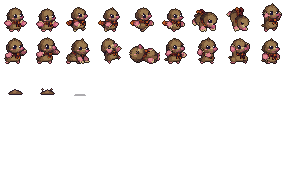
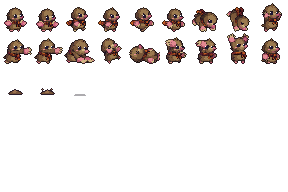
Naïl 치기 여섯 칸을 영상에서(nail_v5_attack.png)
- 1타·2타: 발을 머리 뒤로 당김 → 주둥이 앞까지 뻗음(발톱이 보인다), 3타·강타: 두 발을 머리 위로 → 낮게 내려찍음
- 작게 온 영상(키 약 120px)은 눈 반짝을 못 찾아 눈 덩어리의 가운데를 잰다(eye_dark·stamp_eye, 못 찾는 두 칸은 EYES)
- 거두기는 시트 B 그대로

Changed region(s): [[0.0, 0.1875, 0.3438, 0.3438], [0.5625, 0.1875, 0.75, 0.3438], [0.7812, 0.1562, 0.875, 0.3438]]

diff --git a/tools/art/nail_ai.py b/tools/art/nail_ai.py
@@ -360,6 +360,13 @@ _V5_D = {"dive_ref": (120, 21, 440, 360), "dive_a": (801, 51, 1144, 360), "dive_
 # 영상이 그려 넣은 흰 충격 효과가 있는 칸(5~7)은 피했다.
 SHEET_V5_FALL = SPRITES / "nail_v5_fall.png"
 _V5_F = {"fall_ref": (186, 73, 378, 313), "hurtg": (793, 68, 1013, 315), "deadg": (1391, 168, 1666, 334)}
+# 치기 영상(GIF 30칸, 16:9 첫 칸 — 그림이 작게 와 키 약 120px): 0(서기 — 배율 기준), 1타 4(오른발을 머리 뒤로)·6(주둥이 앞까지 뻗음),
+# 2타 12·14, 3타·강타 21(두 발을 머리 위로)·27(앞으로 낮게 내려찍음). 흐려진 칸(3·11·25)은 피했다. 거두기는 시트 B 그대로.
+SHEET_V5_ATTACK = SPRITES / "nail_v5_attack.png"
+_V5_K = {
+    "atk_ref": (267, 174, 372, 304), "windup0g": (897, 171, 1015, 304), "attack0g": (1556, 176, 1710, 304), "windup1g": (2182, 172, 2297, 304),
+    "attack1g": (2836, 176, 2990, 304), "windup2g": (3454, 147, 3568, 304), "attack2g": (4116, 191, 4258, 310),
+}
 # 머리가 위에 있지 않은 칸은 `shrink_head`가 머리 띠를 못 찾는다. 파고들기는 기준 칸(dive_ref)도 줄이지 않는다 — 줄이면 배율이
 # 커져 줄지 않은 머리가 더 커진다(머리 +18%). 그대로 두면 온몸 크기가 맞고 머리 +7%·몸 −9%쯤(0.1초 스치는 칸이라 받아들인다).
 NO_SHRINK = {"dead", "deadg", "dive_ref", "dive_a", "dive_b"}
@@ -375,6 +382,7 @@ SPEC_V5 = Spec(
         Source(SHEET_V5_WALK, _V5_W, groups=dict.fromkeys(_V5_W, "walkg_1"), tidy=0.15, strip=4),
         Source(SHEET_V5_DIVE, _V5_D, groups=dict.fromkeys(_V5_D, "dive_ref"), tidy=0.15, strip=3),
         Source(SHEET_V5_FALL, _V5_F, groups=dict.fromkeys(_V5_F, "fall_ref"), tidy=0.15, strip=3),
+        Source(SHEET_V5_ATTACK, _V5_K, groups=dict.fromkeys(_V5_K, "atk_ref"), tidy=0.15, strip=2),
     ],
     palette_ref=(0, "idle_a"),
     body_h=BODY_H_V5,
@@ -422,6 +430,36 @@ def eye_shines(img, box):
             py, px = np.mean([q[0] for q in pts]), np.mean([q[1] for q in pts])
             out.append(((px - fx0) / (fx1 - fx0), (py - fy0) / (fy1 - fy0)))
     return out
+
+
+def eye_dark(img, box):
+    """작게 온 영상 칸(키 약 120px)은 눈의 흰 반짝이 한두 점이라 `eye_shines`가 못 찾는다 → 눈 자체(짙고 둥근 덩어리)의 가운데를 잰다.
+    → (x, y) 그림 둘레 상자 기준 0..1, 못 찾으면 None(든 발이 눈 곁에 붙어 덩어리가 외곽선과 이어진 칸 — `EYES`에 적는다)."""
+    x0, y0, x1, y1 = box
+    a = img[y0:y1, x0:x1]
+    r, g, b = a[..., 0], a[..., 1], a[..., 2]
+    fg = ~((r > 170) & (g < 110) & (b > 170))
+    ys, xs = np.nonzero(fg)
+    fx0, fx1, fy0, fy1 = xs.min(), xs.max() + 1, ys.min(), ys.max() + 1
+    for pts in _blobs((r + g + b < 210) & fg)[:8]:
+        p = np.array(pts)
+        h, w = p[:, 0].max() - p[:, 0].min() + 1, p[:, 1].max() - p[:, 1].min() + 1
+        if len(p) >= 80 and len(p) / (w * h) > 0.55 and 0.6 < w / h < 1.6:
+            return (p[:, 1].mean() - fx0) / (fx1 - fx0), (p[:, 0].mean() - fy0) / (fy1 - fy0)
+    return None
+
+
+# `eye_dark`가 못 찾는 칸의 눈 가운데(원본을 보고 적은 값, 그림 둘레 상자 기준 0..1).
+EYES = {"windup0g": (0.55, 0.36), "windup1g": (0.54, 0.36)}
+
+
+def stamp_eye(spr, at):
+    """눈 가운데 `at`에 `stamp_face`와 같은 얼굴을 찍는다(가까운 눈 3×3 + 반짝, 먼 눈은 6px 오른쪽, 홍조)."""
+    ys, xs = np.nonzero(spr[..., 3] > 0)
+    x0, x1, y0, y1 = xs.min(), xs.max() + 1, ys.min(), ys.max() + 1
+    w, h = x1 - x0, y1 - y0
+    ex, ey = x0 + at[0] * w - 1, y0 + at[1] * h - 1
+    return stamp_face(spr, [((ex - x0) / w, (ey - y0) / h), ((ex + 6 - x0) / w, (ey - y0) / h)])
 
 
 def stamp_face(spr, shines):
@@ -614,14 +652,18 @@ def build_v5(walk="gif", lines=True, head=HEAD_V5):
     spr = convert(spec_v5(head))
     idle_img = None
     for sheet, frames in ((SHEET_V5_A, _V5_A), (SHEET_V5_B, _V5_B), (SHEET_V5_WALK, _V5_W), (SHEET_V5_DIVE, _V5_D),
-                          (SHEET_V5_FALL, _V5_F)):
+                          (SHEET_V5_FALL, _V5_F), (SHEET_V5_ATTACK, _V5_K)):
         img, _ = prep_v5(head)(np.asarray(Image.open(sheet).convert("RGB")).astype(int), frames)
         if sheet == SHEET_V5_A:
             idle_img = img
         for name, box in frames.items():
             if lines:
                 spr[name] = ink_lines(spr[name], img, box)
-            spr[name] = stamp_face(spr[name], eye_shines(img, box))
+            if sheet == SHEET_V5_ATTACK:
+                at = EYES.get(name) or eye_dark(img, box)
+                spr[name] = stamp_eye(spr[name], at) if at else spr[name]
+            else:
+                spr[name] = stamp_face(spr[name], eye_shines(img, box))
             if name in CLOSED_EYES:
                 spr[name] = stamp_shut(spr[name], *CLOSED_EYES[name])
     if lines:
@@ -636,7 +678,7 @@ def build_v5(walk="gif", lines=True, head=HEAD_V5):
     rows = [
         [edge(fill_holes(seat(spr["idle_a"], CELL, FOOT))), edge(fill_holes(seat(spr["idle_b"], CELL, FOOT)))] + walk4
         + [sat("dive_a"), sat("dive_b"), sat("burst")],
-        [sat(k) for k in ("attack0", "attack1", "attack2", "hurtg", "deadg", "windup0", "windup1", "windup2", "settle")],
+        [sat(k) for k in ("attack0g", "attack1g", "attack2g", "hurtg", "deadg", "windup0g", "windup1g", "windup2g", "settle")],
         [small(legacy.MOUND_A), small(legacy.MOUND_B), small(legacy.SHADOW)],
     ]
     return rows

diff --git a/docs/phase-1-combat-prototype.md b/docs/phase-1-combat-prototype.md
@@ -172,7 +172,7 @@
 - [ ] 사람: 개발판에서 텃밭 결(값·자라는 속도·칸 자리·화단 꽃·바탕 들꽃 그림 결) 확인 → v1.1 닫기·배포 시점
 - [x] 리팩터링 0307 1단계: R41(마을 상태 = `village::State::of`, 재주를 깨우거나 발자국 반딧불을 받은 뒤 우물 반딧불이 바로 따라옴)·R43(저장은 `App::write_profile` 한 곳 — 꾸미기·큰 나무·발자국 보상에서도 그 자리에서 업적)
 - [x] 리팩터링 0307 2단계: 화면 기준선이 같은 그림을 내게(가짜 시계 `pauseAt`·확인용 줄 난수 고정), R45(`draw_sorted` 단계)·R44(이웃의 몸 하나)·R42(마을 창 = 줄 표 하나 + `VillageUi` + 한마디의 기분) — 기준선 66장으로 견줌. 겉으로 바뀐 것은 텃밭에서 심거나 거둔 뒤 포포가 웃는 것 하나
-- [x] Naïl v5(0308, 사장 2026-11-27): 초상화 얼굴에서 다시 받은 시트 둘 + 걷기 영상 네 칸, 칸 28 → 32, 눈 도장·감은 눈·물들인 외곽선·안쪽 선, 머리 0.85배(포포와 나란히), 땅 단면 그림의 털색 맞춤, 파고들기 두 칸(영상)·솟구치기 칸(시트 B)·맞음과 쓰러짐(영상). **사장 확인 전**(머리 배율·외곽선). 공식 페이지·상점 그림은 v1.1 낼 때 다시 찍는다
+- [x] Naïl v5(0308, 사장 2026-11-27): 초상화 얼굴에서 다시 받은 시트 둘 + 걷기 영상 네 칸, 칸 28 → 32, 눈 도장·감은 눈·물들인 외곽선·안쪽 선, 머리 0.85배(포포와 나란히), 땅 단면 그림의 털색 맞춤, 파고들기 두 칸(영상)·솟구치기 칸(시트 B)·맞음과 쓰러짐(영상)·치기 여섯 칸(영상). **사장 확인 전**(머리 배율·외곽선). 공식 페이지·상점 그림은 v1.1 낼 때 다시 찍는다
 - [ ] 리팩터링 0307 3단계(R46 `world.rs` 나누기): PR #30이 Merge된 뒤, 동작을 안 바꾸는 옮기기만 작은 걸음으로(사장 2026-11-27 "합치고 하자, 임팩트가 적은 방향으로"). R47(`App` 상태 묶음)은 미룸
 - [x] 판정 1차 반영(사장 2026-11-27, 설문 페이지 — 0307 "판정 1차"): 우물 반딧불이 보이게·돌 우물은 길을 막는다·갈대 피리 소리 줄이기·등불과 텃밭 탭의 설명 자리·오른쪽 위 글자·포포 초상화 테두리·확인용 줄 이름
 - [ ] 사람: 판정 2차(설문 페이지) — 고친 것 확인 여섯, 정할 것 다섯(그림 바꾸기·등불의 뜻·흔적 거리·물웅덩이·초상화 테두리). 그림을 새로 받는다면 `docs/art/hub-sprite-prompts.md` 시트 E1~E4(이웃 등불·샘 그릇·갈대 피리부터)

diff --git a/docs/decisions/0308-nail-v5-sprite.md b/docs/decisions/0308-nail-v5-sprite.md
@@ -58,6 +58,15 @@
 - 2타 들기 칸만 키가 27px(다른 칸 24~25)였다 — 모델이 그 칸만 크게 그려 왔다. 줄이기 전에 그 칸만 0.89배(`SCALE_V5`·`scale_frames`).
 - 걷기를 시트 7칸으로 다시 받은 것(잘못 받은 것)은 쓰지 않았다: 얼굴은 고르지만 다리가 엇갈리지 않는다. 사장 "원래 게 더 좋은데?" → 영상 네 칸 그대로.
 
+## 치기 칸을 영상에서(같은 날 더함)
+사장 "다른 스프라이트 다듬을 거 없어? 공격 모션이라던가?" → 약한 곳은 1타·2타였다: 들기와 치기가 거의 같은 자세라 발이 주둥이 앞까지 안 뻗고,
+발톱이 안 보였다. 세 번 치는 클립 하나(30칸)를 받아 여섯 칸을 바꿨다(`nail_v5_attack.png`): 1타·2타 = 발을 머리 뒤로 당김 → 주둥이 앞까지 뻗음(발톱이 보인다),
+3타·강타 = 두 발을 머리 위로 → 앞으로 낮게 내려찍음. 거두기는 시트 B 그대로.
+- 이 클립은 그림이 작게 왔다(키 약 120px — 앞의 둘은 330px). 눈의 흰 반짝이 한두 점이라 `eye_shines`가 못 찾아 얼굴이 비거나 발톱에 눈이 찍혔다
+  → 눈 자체(짙고 둥근 덩어리)의 가운데를 재서 찍는다(`eye_dark`·`stamp_eye`). 든 발이 눈 곁에 붙은 두 칸은 자리를 적었다(`EYES`).
+- 작게 온 만큼 안쪽 무늬(목도리 체크)는 시트 칸보다 흐리다. 자세가 읽히는 쪽을 골랐다 — 사장 확인 전.
+- 영상의 팔은 뻗을 때 조금 길게 늘어난다(고무 같은 팔). 24px에서는 "멀리 뻗었다"로 읽힌다.
+
 ## 다른 캐릭터에도 되나(사장 "다른 캐릭터들도 … 다 예뻐질지 확인해 보자")
 같은 두 기법(외곽선 물들이기·안쪽 선)을 지금 시트에 입혀 봤다 — **거의 달라지지 않는다**.
 - 모모·도토·포포·콩이·보리는 이미 32~40칸이라 원본의 선이 살아 있다. 외곽선을 물들이면 조금 부드러워질 뿐이다

diff --git a/docs/art/redo-nail-kongi-tree-prompts.md b/docs/art/redo-nail-kongi-tree-prompts.md
@@ -260,4 +260,5 @@ Row 3: (1) settle: paws coming back down to the sides; (2) diving into the groun
 - 맞음·쓰러짐 칸은 감은 눈(`stamp_shut`), 머리는 `HEAD_V5` 0.85배(`shrink_head`), 걷기는 영상 네 칸 — 2026-11-27 개발판에 넣었다(칸 32, docs/decisions/0308).
 - 파고들기는 영상(GIF 30칸)에서 두 칸(`nail_v5_dive.png`), 솟구치기는 시트 B의 칸 — 영상의 솟는 칸은 비율이 달라져 쓰지 않았다(0308 "파고들기·솟구치기 칸").
 - 맞음·쓰러짐도 영상에서(`nail_v5_fall.png`, 칸 12·25) — 16:9 첫 칸 + "옆모습·비율 유지" 한 줄을 붙여 받으니 카메라·비율이 지켜졌다.
+- 치기 여섯 칸도 영상에서(`nail_v5_attack.png`, 세 번 치는 클립 하나) — 그림이 작게 와 눈은 짙은 덩어리로 찾는다(0308 "치기 칸을 영상에서").
 
